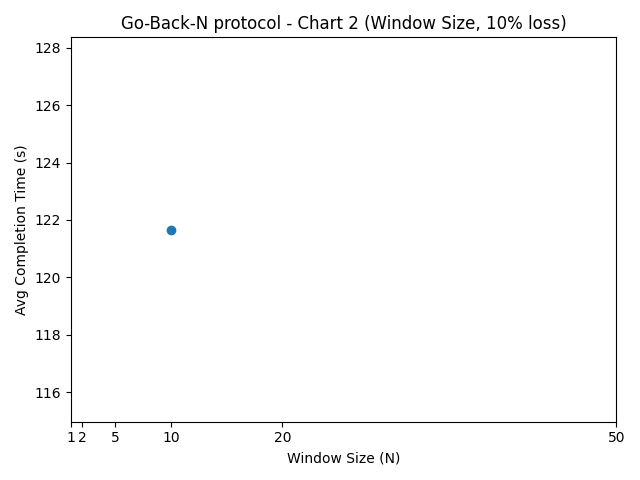
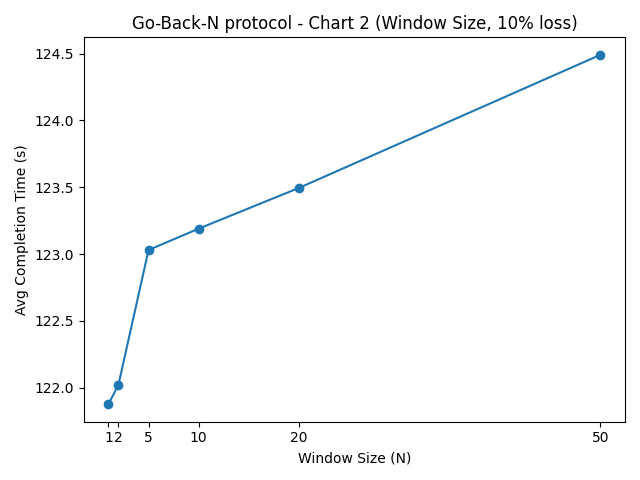
Chart 2 complete

diff --git a/project_folders/4_phase/src/main.py b/project_folders/4_phase/src/main.py
@@ -137,8 +137,7 @@ def main():
             case "run_chart2":
                 # Chart 2 Runs
                 for w in window_sizes:
-                    for i in range(num_runs):
-                        run_scenario(5, 0.10, w, i)
+                    run_scenario(5, 0.10, w, 1)
                 break
 
             case "run_chart3":
